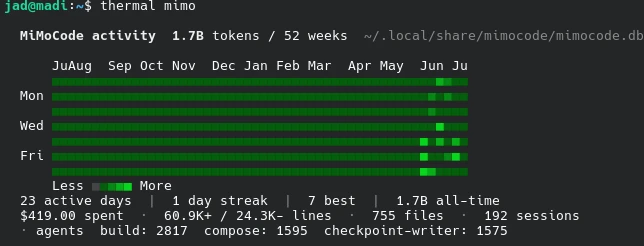
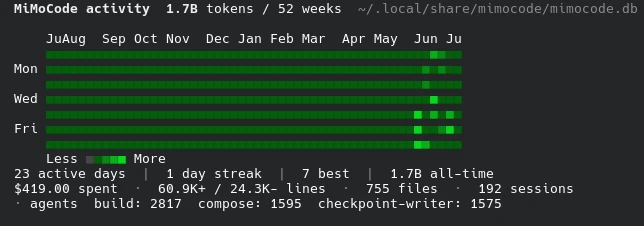
docs: add leaderboard and tool showcase screenshots to README

Changed region(s): [[0.0, 0.1239, 1.0, 0.9602], [0.0, 0.0, 0.528, 0.0619], [0.559, 0.0, 0.9938, 0.0619]]

diff --git a/README.md b/README.md
@@ -6,7 +6,7 @@ GitHub-style contribution heatmap for AI coding tools.
 
 See your coding streaks, daily activity, and usage patterns rendered as a beautiful terminal heatmap. Default mode shows a **leaderboard** ranking all your installed tools.
 
-![Thermal leaderboard](screenshot.webp)
+![Thermal leaderboard](thermal.webp)
 
 ## Supported Tools
 
@@ -126,6 +126,12 @@ thermal --no-color
 ```
 
 ## Example: Single Tool
+
+![Devin heatmap](devin.webp)
+![MiMoCode heatmap](mimo.webp)
+![Codex heatmap](codex.webp)
+![command-code heatmap](cmd.webp)
+![codewhale heatmap](codewhale.webp)
 
 ```
   OpenCode activity  1.2B tokens / 8 weeks  ~/.local/share/opencode/opencode.db
